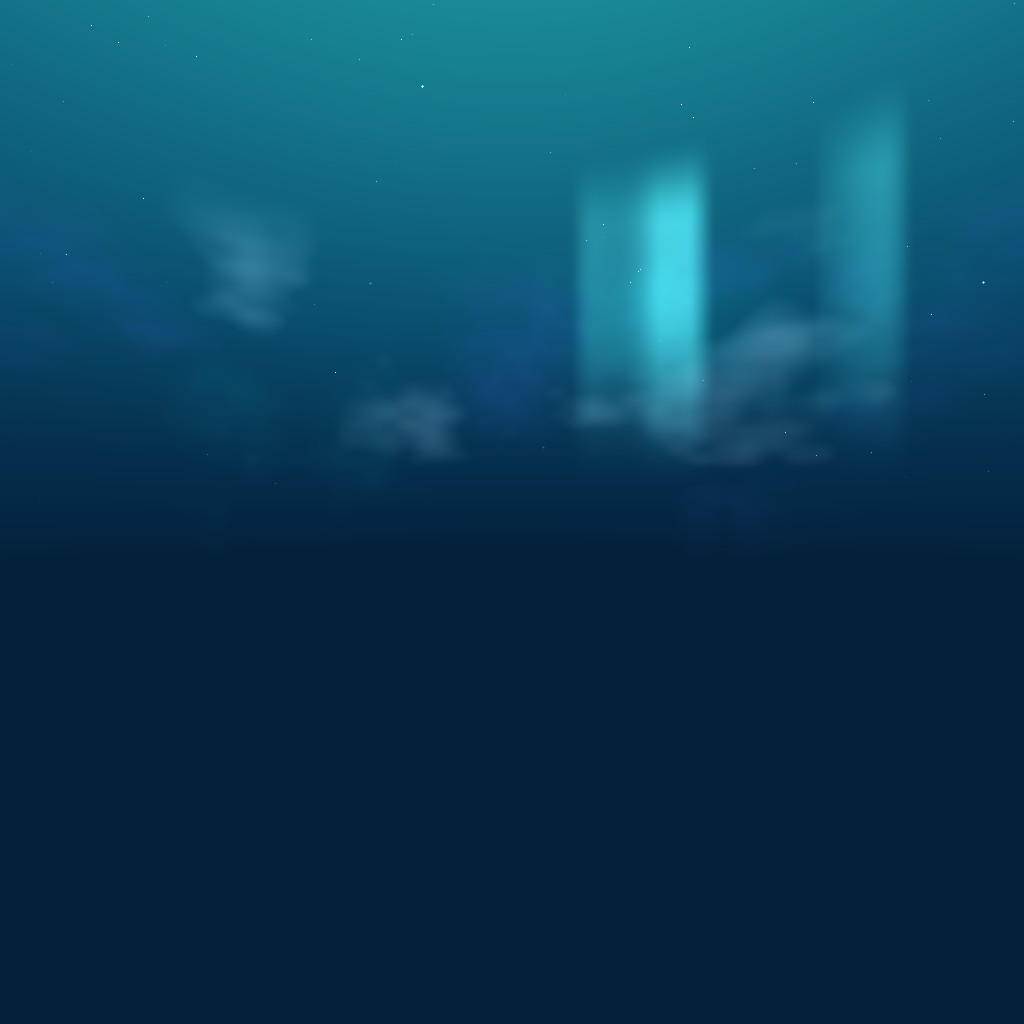
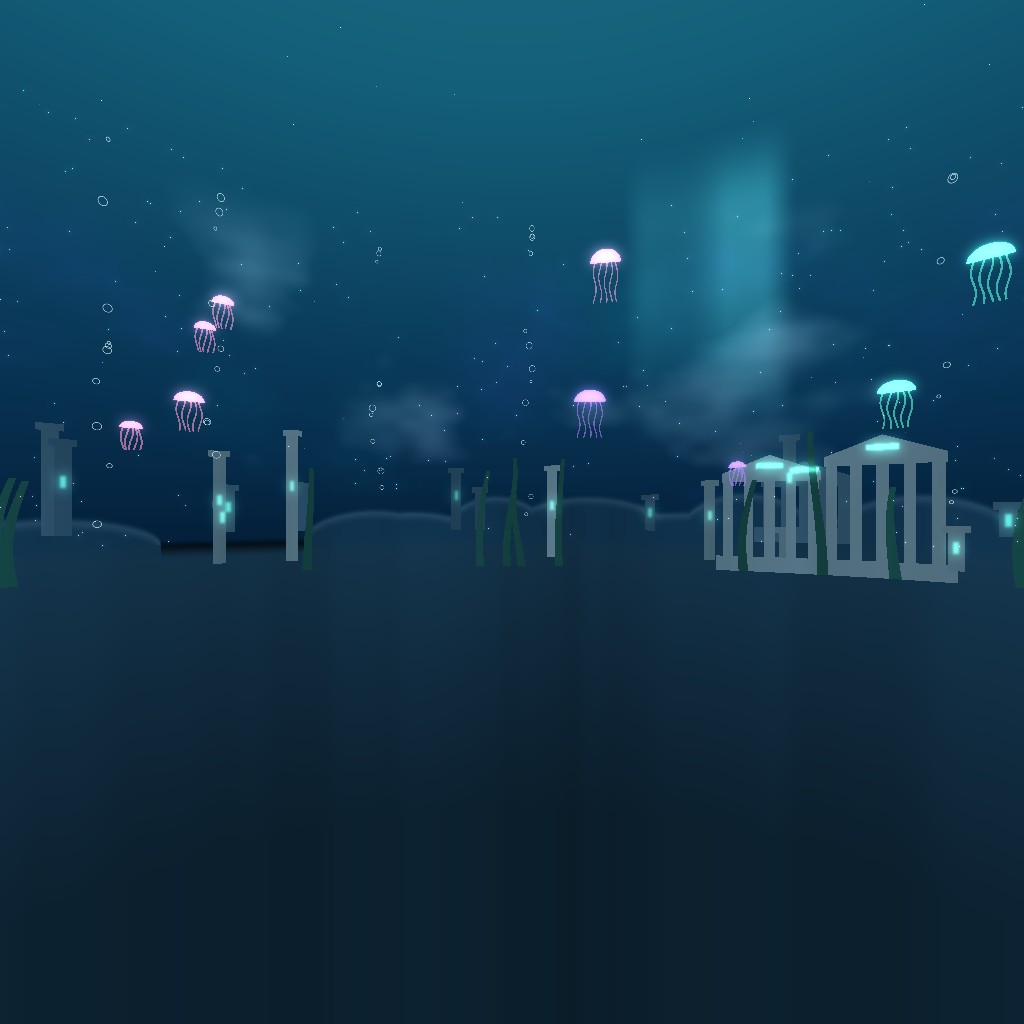
Tiefsee: Wasser von Welt zu Welt dunkler, neue Unterwasser-Himmelsbilder
Claude-Session: https://claude.ai/code/session_01WGAK1WKGb9aXCr6zYGQPQk

diff --git a/roblox/js/worldParts.js b/roblox/js/worldParts.js
@@ -788,6 +788,7 @@ export function worldLighting(world) {
   const lum = 0.3 * c.r + 0.59 * c.g + 0.11 * c.b;
   const night = lum < 0.2;
   const dim = (hex, k) => '#' + new THREE.Color(hex).multiplyScalar(k).getHexString();
+  const look = worldLook(world, night);
   return {
     ClockTime: night ? 0.5 : 14,
     Brightness: night ? 1.2 : 2.6,
@@ -802,7 +803,8 @@ export function worldLighting(world) {
     bloom: { Intensity: night ? 0.7 : 0.45, Size: 24, Threshold: night ? 1.2 : 1.6 },
     // Himmelsbild (Skybox) der Welt, falls gemalt (welten/js/skyboxes.js)
     himmel: SKYBOXES[world.id] ? { id: world.id, sun: SKYBOXES[world.id].sun !== false, night: !!NIGHT_SKY[world.id] } : null,
-    ...worldLook(world, night),
+    ...look,
+    atmosphere: { Density: world.water ? 0.55 : night ? 0.4 : 0.42, Offset: 0.08, Color: horizon, Decay: top, Glare: night ? 0 : 0.25, Haze: world.water ? 2.6 : 1.8, ...look.atmosphere },
   };
 }
 
@@ -821,6 +823,12 @@ const LOOK = {
   wolkenburg: { clock: 12.5, sat: 0.16, tint: '#fffaf0' },
   engelsgarten: { clock: 13, sat: 0.16, tint: '#fff8e8' },
   goetterthron: { clock: 17.8, sat: 0.22, tint: '#fff0d8' },
+  // Tiefsee (Werkstatt-Wunsch „jede weitere Welt dunkleres Wasser“): Licht, Nebel und Wasserfarbe werden von Welt zu
+  // Welt dunkler und blauer, der Nebel rückt näher (passend zu den Himmelsbildern)
+  korallenriff: { sat: 0.2, tint: '#eafcff', light: { Brightness: 2.4, Ambient: '#5a7c8a', OutdoorAmbient: '#8abccc', FogColor: '#2aa8d0', FogStart: 140, FogEnd: 950, atmosphere: { Color: '#2aa8d0', Decay: '#8ae4f0', Density: 0.5, Haze: 2.2 } } },
+  muschelland: { sat: 0.18, tint: '#e4f2ff', light: { Brightness: 1.8, Ambient: '#4a6478', OutdoorAmbient: '#6a90aa', FogColor: '#16729a', FogStart: 120, FogEnd: 800, atmosphere: { Color: '#16729a', Decay: '#6aa8d0', Density: 0.55, Haze: 2.5 } } },
+  atlantis: { sat: 0.16, tint: '#d4e6ff', light: { Brightness: 1.25, Ambient: '#2c4258', OutdoorAmbient: '#3c5a78', FogColor: '#062a48', FogStart: 100, FogEnd: 640, atmosphere: { Color: '#062a48', Decay: '#14607a', Density: 0.6, Haze: 2.8 } } },
+  tiefseegraben: { sat: 0.14, tint: '#c4d6f0', light: { Brightness: 0.75, Ambient: '#1a2638', OutdoorAmbient: '#22344a', FogColor: '#01070f', FogStart: 70, FogEnd: 480, atmosphere: { Color: '#01070f', Decay: '#041420', Density: 0.66, Haze: 3 } } },
 };
 function worldLook(world, night) {
   const L = LOOK[world.id] || {};
@@ -828,6 +836,7 @@ function worldLook(world, night) {
     farbe: { Saturation: L.sat ?? 0.2, Contrast: 0.06, Brightness: 0.01, TintColor: L.tint || '#ffffff' },
   };
   if (L.clock && !night) out.ClockTime = L.clock;
+  if (L.light) Object.assign(out, L.light);
   const N = NIGHT_SKY[world.id];
   if (N) {
     out.nacht = {

diff --git a/tools/himmel/himmel.py b/tools/himmel/himmel.py
@@ -287,6 +287,207 @@ def cavern(img, elev, u, cfg, seed):
         img[..., k] = np.clip(img[..., k] + dots[..., k] * 0.8 + blur_wrap(dots[..., k], 4) * 1.2, 0, 1)
 
 
+# Unterwasserwelten (Werkstatt-Wunsch „Tiefsee: jede Welt dunkler, Himmel deutlich verbessern“): Silhouetten am
+# Meeresgrund in mehreren Nebelschichten (Korallen, Riesenmuscheln, Tang, Ruinen, Schluchtwände), dazu Fischschwärme,
+# Quallen, Luftblasen, Leuchtpunkte und glühende Schlote. Gerechnet in Grad (X = Richtung, 0..90 und wiederholt,
+# Y = Höhe), damit die Formen rund sind; alles bleibt unter 32 Grad (Naht zum Bild oben).
+def _wrapdx(X, c):
+    return (X - c + 45.0) % 90.0 - 45.0
+
+
+def _over(img, a, col):
+    a = np.clip(a, 0, 1)[..., None]
+    img[:] = img * (1 - a) + np.asarray(col, np.float32)[None, None, :] * a if np.ndim(col) == 1 else img * (1 - a) + col * a
+
+
+def _fogcol(c, fogc, f):
+    return rgb(c) * (1 - f) + rgb(fogc) * f
+
+
+def undersea(img, elev, u, cfg, seed):
+    rng = np.random.default_rng(seed)
+    X, Y = u * 90.0, elev
+    fogc = cfg['fog']
+    glowA = np.zeros(elev.shape, np.float32)
+    glowC = np.zeros(elev.shape + (3,), np.float32)
+
+    def add_glow(a, c):
+        nonlocal glowA, glowC
+        glowA = glowA + a
+        glowC = glowC + rgb(c)[None, None, :] * a[..., None]
+
+    for layer in cfg.get('layers', []):
+        f = layer['fog']
+        kind = layer['kind']
+        base = layer.get('base', -4)
+        n = layer.get('n', 10)
+        cols = layer.get('colors', ['#203040'])
+        tex = fbm(u, elev / 40.0, 10, 3, seed + int(f * 100), 0.6)
+        if kind in ('mounds', 'cliffs'):
+            # runde Korallenhügel / zackige Schluchtwände
+            best = np.full(elev.shape, -99.0, np.float32)
+            who = np.full(elev.shape, -1, np.int32)
+            for i in range(n):
+                c, w, h = rng.uniform(0, 90), rng.uniform(*layer['w']), rng.uniform(*layer['h'])
+                d = np.abs(_wrapdx(X, c)) / w
+                if kind == 'mounds':
+                    v = base + h * np.sqrt(np.clip(1 - d * d, 0, 1)) - 99 * (d >= 1)
+                else:
+                    v = base + h * np.clip(1 - d, 0, 1) ** 0.6 - 99 * (d >= 1)
+                m = v > best
+                best = np.where(m, v, best)
+                who = np.where(m, i, who)
+            if kind == 'cliffs':
+                best = best + (fbm(u, np.zeros_like(elev), 40, 3, seed + 5, 0.6) - 0.5) * layer.get('rough', 3)
+            a = np.maximum(smooth(best + 0.4, best - 0.4, Y), smooth(base + 0.4, base - 0.4, Y))
+            col = np.zeros(elev.shape + (3,), np.float32)
+            for i in range(n):
+                col = np.where((who == i)[..., None], _fogcol(cols[i % len(cols)], fogc, f)[None, None, :], col)
+            # unter dem Fuß der Hügel: einheitlicher Grund (Sand oder Fels), nach unten dunkler; sonst entstünden Streifen
+            floor = _fogcol(layer.get('floor', '#8a7a68'), fogc, f)
+            fl = smooth(base + 0.5, base - 1.5, Y)[..., None]
+            col = col * (1 - fl) + floor[None, None, :] * fl * (0.6 + 0.4 * np.clip((Y + 30) / 30, 0, 1))[..., None]
+            col = col * (0.82 + 0.3 * tex[..., None])
+            # Lichtkante oben (Licht von der Oberfläche)
+            rim = smooth(best - 1.2, best - 0.1, Y) * a * (best > base + 0.3) * (Y > base)
+            col = col + rgb(layer.get('rim', '#ffffff'))[None, None, :] * (rim * layer.get('rimStrength', 0.25) * (1 - f))[..., None]
+            _over(img, a, col)
+            # Korallenzweige auf den Hügeln
+            if layer.get('branches'):
+                for i in range(layer['branches']):
+                    c = rng.uniform(0, 90)
+                    col_i = _fogcol(rng.choice(cols), fogc, f * 0.9)
+                    top = base + rng.uniform(*layer['h']) * 0.9
+                    for k in range(3):
+                        bx = c + rng.uniform(-1.2, 1.2)
+                        bh = rng.uniform(2.5, 5.0)
+                        y0 = top - 2
+                        t = np.clip((Y - y0) / bh, 0, 1)
+                        xc = bx + np.sin(t * 3 + k) * 0.6 * t
+                        wdt = 0.35 * (1 - t * 0.6)
+                        a2 = (np.abs(_wrapdx(X, xc)) < wdt) * (Y > y0) * (Y < y0 + bh)
+                        tip = smooth(y0 + bh - 0.8, y0 + bh - 0.2, Y) * a2
+                        _over(img, a2.astype(np.float32), col_i * 0.9 + 0.1 * rgb('#ffffff'))
+                        add_glow(tip * layer.get('tipGlow', 0) , '#ffffff')
+        elif kind == 'kelp':
+            for i in range(n):
+                c = rng.uniform(0, 90)
+                H = rng.uniform(*layer['h'])
+                ph, fr, amp = rng.uniform(0, 6.3), rng.uniform(0.15, 0.3), rng.uniform(0.4, 1.2)
+                t = np.clip((Y - base) / H, 0, 1)
+                xc = c + np.sin(Y * fr + ph) * amp * t
+                wdt = layer.get('width', 0.45) * (1 - t * 0.5)
+                a = ((np.abs(_wrapdx(X, xc)) < wdt) & (Y > base) & (Y < base + H)).astype(np.float32)
+                _over(img, a, _fogcol(cols[i % len(cols)], fogc, f) * (0.85 + 0.25 * tex[..., None]))
+        elif kind == 'shells':
+            # Riesenmuscheln: Fächer mit Rippen, Perle in der Mitte
+            for i in range(n):
+                c, r = rng.uniform(0, 90), rng.uniform(*layer['h'])
+                dx, dy = _wrapdx(X, c), Y - base
+                d = np.sqrt(dx * dx + dy * dy)
+                ang = np.arctan2(dy, dx)
+                a = ((d < r) & (dy > 0)).astype(np.float32)
+                ribs = 0.8 + 0.25 * np.cos(ang * 14)
+                col = _fogcol(cols[i % len(cols)], fogc, f)[None, None, :] * ribs[..., None] * (0.85 + 0.25 * (d / r))[..., None]
+                _over(img, a, col)
+                if layer.get('pearls'):
+                    pd = np.sqrt(dx * dx + (dy - r * 0.18) ** 2)
+                    pa = smooth(r * 0.12, r * 0.09, pd)
+                    _over(img, pa, _fogcol('#fff4fb', fogc, f * 0.5))
+                    add_glow(pa * 0.8, '#ffd8f0')
+        elif kind == 'ruins':
+            # Säulen (manche abgebrochen) und Tempel mit Giebel, leuchtende Runen
+            for i in range(n):
+                c = rng.uniform(0, 90)
+                if rng.random() < layer.get('temple', 0.3):
+                    w, H = rng.uniform(6, 10), rng.uniform(*layer['h'])
+                    dx = _wrapdx(X, c)
+                    cols_a = np.zeros(elev.shape, np.float32)
+                    for k in range(5):
+                        cx = -w / 2 + w * k / 4
+                        cols_a = np.maximum(cols_a, ((np.abs(dx - cx) < 0.45) & (Y > base) & (Y < base + H)).astype(np.float32))
+                    beam = ((np.abs(dx) < w / 2 + 0.6) & (Y > base + H) & (Y < base + H + 0.9)).astype(np.float32)
+                    roof = ((Y > base + H + 0.9) & (Y < base + H + 0.9 + (w / 2 + 0.6 - np.abs(dx)) * 0.4)).astype(np.float32)
+                    step = ((np.abs(dx) < w / 2 + 1.2) & (Y > base - 1) & (Y < base + 0.5)).astype(np.float32)
+                    a = np.maximum.reduce([cols_a, beam, roof, step])
+                    _over(img, a, _fogcol(cols[0], fogc, f) * (0.85 + 0.25 * tex[..., None]))
+                    rune = ((np.abs(dx) < 1.2) & (np.abs(Y - (base + H + 1.6)) < 0.25)).astype(np.float32)
+                    add_glow(rune * 1.5, layer.get('glow', '#5affd8'))
+                    _over(img, rune, rgb(layer.get('glow', '#5affd8')))
+                else:
+                    H = rng.uniform(*layer['h']) * (0.4 if rng.random() < 0.4 else 1)
+                    dx = _wrapdx(X, c)
+                    shaft = (np.abs(dx) < 0.55) & (Y > base) & (Y < base + H)
+                    cap = (np.abs(dx) < 0.9) & (Y > base + H) & (Y < base + H + 0.6)
+                    a = (shaft | cap).astype(np.float32)
+                    _over(img, a, _fogcol(cols[i % len(cols)], fogc, f) * (0.8 + 0.3 * tex[..., None]))
+                    rune = ((np.abs(dx) < 0.2) & (np.abs(Y - (base + H * 0.6)) < 0.5)).astype(np.float32) * (rng.random() < 0.6)
+                    add_glow(rune * 1.2, layer.get('glow', '#5affd8'))
+        elif kind == 'vents':
+            # glühende Schlote am Grund
+            for i in range(n):
+                c = rng.uniform(0, 90)
+                dx = _wrapdx(X, c)
+                H = rng.uniform(*layer['h'])
+                a = ((np.abs(dx) < (1.2 - (Y - base) / H * 0.8)) & (Y > base) & (Y < base + H)).astype(np.float32)
+                _over(img, a, _fogcol(cols[0], fogc, f))
+                g = np.exp(-((dx / 1.2) ** 2 + ((Y - base - H) / 1.5) ** 2))
+                add_glow(g * 1.4, layer.get('glow', '#ff7a2a'))
+                # Rauchfahne
+                sm = np.exp(-(dx / (0.8 + (Y - base - H) * 0.12)) ** 2) * smooth(base + H, base + H + 2, Y) * (1 - smooth(base + H + 6, base + H + 16, Y))
+                _over(img, sm * 0.5, _fogcol('#3a4048', fogc, 0.5))
+    # Fischschwärme
+    for s_ in range(cfg.get('schools', 0)):
+        cx, cy = rng.uniform(0, 90), rng.uniform(6, 26)
+        col = _fogcol(cfg.get('fishColor', '#203848'), fogc, rng.uniform(0.2, 0.6))
+        dirn = rng.choice([-1, 1])
+        for _ in range(int(rng.integers(12, 28))):
+            fx, fy = cx + rng.normal(0, 3), cy + rng.normal(0, 1.4)
+            dx, dy = _wrapdx(X, fx), Y - fy
+            body = (dx / 0.55) ** 2 + (dy / 0.22) ** 2 < 1
+            tail = (dirn * dx < -0.4) & (dirn * dx > -0.8) & (np.abs(dy) < (-(dirn * dx) - 0.4) * 0.6)
+            _over(img, (body | tail).astype(np.float32), col)
+    # Quallen
+    for _ in range(cfg.get('jellies', 0)):
+        cx, cy = rng.uniform(0, 90), rng.uniform(4, 26)
+        r = rng.uniform(0.8, 1.8)
+        c = rng.choice(cfg.get('jellyColors', ['#ff9ad5']))
+        dx, dy = _wrapdx(X, cx), Y - cy
+        dome = ((dx / r) ** 2 + (dy / (r * 0.75)) ** 2 < 1) & (dy > 0)
+        tent = np.zeros(elev.shape, bool)
+        for k in range(5):
+            tx = -r * 0.7 + r * 1.4 * k / 4
+            tent |= (np.abs(dx - tx - np.sin((dy) * 2 + k) * 0.15) < 0.07) & (dy < 0) & (dy > -r * 2.2)
+        _over(img, dome.astype(np.float32) * 0.75, rgb(c) * 0.8 + 0.2)
+        _over(img, tent.astype(np.float32) * 0.6, rgb(c))
+        add_glow(dome.astype(np.float32) * 0.9, c)
+    # Luftblasen in Säulen
+    for _ in range(cfg.get('bubbles', 0)):
+        cx = rng.uniform(0, 90)
+        for k in range(int(rng.integers(6, 14))):
+            by = rng.uniform(-2, 30)
+            bx = cx + np.sin(by * 0.5) * 0.6
+            r = rng.uniform(0.12, 0.35)
+            d = np.sqrt(_wrapdx(X, bx) ** 2 + (Y - by) ** 2)
+            ring = smooth(r - 0.06, r, d) * (1 - smooth(r, r + 0.05, d))
+            _over(img, ring * 0.7, rgb('#e8ffff'))
+    # Leuchtplankton
+    for _ in range(cfg.get('plankton', 0)):
+        y, x = int(rng.integers(0, N)), int(rng.integers(0, N))
+        if not (-3 < elev[y, x] < 31):
+            continue
+        c = rgb(rng.choice(cfg.get('planktonColors', ['#7affe8'])))
+        glowA[y, x] += 2.5
+        glowC[y, x] += c * 2.5
+        img[y, x] = np.clip(img[y, x] + c, 0, 1)
+    # Leuchten weich zeichnen
+    if glowA.max() > 0:
+        gcol = glowC / np.maximum(glowA[..., None], 1e-4)
+        ga = np.clip(glowA, 0, 1.5)
+        for k in range(3):
+            img[..., k] = np.clip(img[..., k] + blur_wrap(np.clip(gcol[..., k] * ga / 1.5, 0, 1), 6) * cfg.get('glow', 0.9) + blur_wrap(np.clip(gcol[..., k] * ga / 1.5, 0, 1), 1.2) * 0.5, 0, 1)
+
+
 # Regenbogenband rundherum (nur von der Höhe abhängig, darum ohne Naht), weich und durchscheinend
 def rainbow(img, elev, cfg):
     lo, hi = cfg['band']
@@ -417,6 +618,8 @@ def render(name, cfg):
         cave(img, elev, u, cfg['cave'], seed + 77)
     if cfg.get('cavern'):
         cavern(img, elev, u, cfg['cavern'], seed + 79)
+    if cfg.get('undersea'):
+        undersea(img, elev, u, cfg['undersea'], seed + 83)
     if cfg.get('water'):
         water(img, elev, u, cfg['water'], seed + 33)
     if cfg.get('rays'):
@@ -626,34 +829,69 @@ HIMMEL = {
             {'band': (8, 26), 'scale': 6, 'cover': 0.55, 'soft': 0.4, 'light': '#ffd84a', 'shadow': '#e05a10', 'streaks': True, 'alpha': 0.5, 'blur': 4},
         ],
     },
-    # Korallenriff: warmes, klares Wasser; oben hell türkis mit Lichtnetz der Oberfläche, Lichtstrahlen fallen schräg herab,
-    # zum Horizont tiefes Blau; ein paar Planktonpünktchen (Sterne in hellem Türkis)
+    # Tiefsee (Werkstatt-Wunsch „jede weitere Welt dunkleres Wasser, Himmel deutlich verbessern“): Korallenriff hell
+    # und sonnig, Muschelland etwas tiefer, Atlantis tiefblau, Tiefseegraben fast schwarz (unten bei HIMMEL.update)
+    # Korallenriff: klares, sonniges Flachwasser; kräftige Lichtstrahlen, bunte Korallenhügel in drei Nebelschichten,
+    # Fischschwärme und Luftblasen
     'korallenriff': {
         'seed': 163,
-        'gradient': [(-5, '#0a4a7a'), (6, '#127aa8'), (20, '#2ab0c8'), (45, '#6ad8e8'), (90, '#bff8ff')],
-        'below': [(-90, '#06304e'), (0, '#0a4a7a')],
-        'water': {'light': '#e8ffff', 'shafts': 18, 'strength': 0.4, 'from': 2, 'to': 22},
-        'stars': 400,
+        'gradient': [(-6, '#1a7aa8'), (4, '#2aa8d0'), (16, '#4ac8e0'), (34, '#8ae4f0'), (90, '#d8fcff')],
+        'below': [(-90, '#0a5a88'), (0, '#1a7aa8')],
+        'glow': {'at': 26, 'width': 14, 'color': '#e8ffff', 'strength': 0.25},
+        'undersea': {
+            'fog': '#2aa8d0',
+            'layers': [
+                {'kind': 'mounds', 'n': 16, 'w': (3, 7), 'h': (3, 7), 'base': -3, 'fog': 0.7, 'colors': ['#ff8aa8', '#ffb05a', '#c87aff', '#5ad8a0'], 'floor': '#e8d8a8'},
+                {'kind': 'mounds', 'n': 12, 'w': (2.5, 6), 'h': (4, 9), 'base': -5, 'fog': 0.45, 'colors': ['#ff6a8a', '#ffa03a', '#b05aff', '#3ac888', '#ffd84a'], 'branches': 14, 'floor': '#e0cc98'},
+                {'kind': 'kelp', 'n': 14, 'h': (6, 16), 'base': -6, 'fog': 0.3, 'colors': ['#2a8a5a', '#3aa060']},
+                {'kind': 'mounds', 'n': 8, 'w': (2, 5), 'h': (5, 11), 'base': -8, 'fog': 0.15, 'colors': ['#e84a6a', '#ff8a2a', '#9a3ae8', '#ffc83a'], 'branches': 10, 'rimStrength': 0.4, 'floor': '#d8c08a'},
+            ],
+            'schools': 7, 'fishColor': '#1a4a6a', 'bubbles': 10, 'plankton': 80, 'planktonColors': ['#ffffff', '#e8ffff'], 'glow': 0.4,
+        },
+        'water': {'light': '#ffffff', 'shafts': 16, 'strength': 0.6, 'from': -2, 'to': 24},
+        'stars': 200,
     },
-    # Muschelland: perlmuttfarbenes Wasser; oben helles Rosa-Weiß mit Lichtnetz, Lichtstrahlen in zartem Rosa,
-    # zum Horizont Türkis bis Blau, Perlenglitzern
+    # Muschelland: tieferes Türkisblau mit Perlmuttschimmer; Riesenmuscheln mit leuchtenden Perlen, Tangwald,
+    # Lichtstrahlen in zartem Rosa
     'muschelland': {
         'seed': 173,
-        'gradient': [(-5, '#1a5a8a'), (6, '#2a8ab0'), (18, '#5ab8d0'), (34, '#a8b8e0'), (60, '#e0a8d0'), (90, '#f0b8dc')],
-        'below': [(-90, '#124a72'), (0, '#1a5a8a')],
-        'water': {'light': '#ffd8f0', 'shafts': 16, 'strength': 0.35, 'from': 2, 'to': 22, 'topLight': 0.5},
-        'stars': 500,
+        'gradient': [(-6, '#0e5078'), (4, '#16729a'), (16, '#2a90b4'), (32, '#6aa8d0'), (60, '#b8a8d8'), (90, '#d8a8d0')],
+        'below': [(-90, '#083a5a'), (0, '#0e5078')],
+        'glow': {'at': 4, 'width': 8, 'color': '#ffb8e0', 'strength': 0.2},
+        'undersea': {
+            'fog': '#16729a',
+            'layers': [
+                {'kind': 'mounds', 'n': 14, 'w': (4, 9), 'h': (2, 5), 'base': -3, 'fog': 0.7, 'colors': ['#e8c8a0', '#d8b090'], 'floor': '#d8c0a0'},
+                {'kind': 'kelp', 'n': 26, 'h': (8, 22), 'base': -4, 'fog': 0.55, 'colors': ['#2a6a5a', '#3a7a5a'], 'width': 0.5},
+                {'kind': 'shells', 'n': 7, 'h': (2.5, 5), 'base': -3, 'fog': 0.35, 'colors': ['#ffd8ec', '#f4c8e0', '#ffe8d0'], 'pearls': True},
+                {'kind': 'kelp', 'n': 12, 'h': (10, 26), 'base': -8, 'fog': 0.2, 'colors': ['#1a5a4a', '#2a6a4a'], 'width': 0.6},
+                {'kind': 'shells', 'n': 4, 'h': (4, 7), 'base': -7, 'fog': 0.12, 'colors': ['#ffc8e4', '#ffe0f0'], 'pearls': True},
+            ],
+            'schools': 4, 'fishColor': '#0e3a5a', 'bubbles': 8, 'plankton': 160, 'planktonColors': ['#ffe8f8', '#ffffff'], 'glow': 0.6,
+        },
+        'water': {'light': '#ffd8f0', 'shafts': 14, 'strength': 0.4, 'from': 0, 'to': 24, 'topLight': 0.5},
+        'stars': 300,
     },
-    # Atlantis: tiefes, geheimnisvolles Wasser; oben schwach türkis leuchtende Oberfläche, wenige kräftige Lichtstrahlen,
-    # zum Horizont fast schwarzblau; Leuchtplankton in Türkis
+    # Atlantis: tiefblaues, dämmriges Wasser; versunkene Säulen und Tempel mit leuchtenden Runen, Quallen,
+    # wenige schwache Lichtstrahlen, viel Leuchtplankton
     'atlantis': {
         'seed': 181,
-        'gradient': [(-5, '#04203a'), (6, '#063050'), (20, '#0a5070'), (45, '#1a8a98'), (90, '#3ac8c0')],
-        'below': [(-90, '#021428'), (0, '#04203a')],
-        'water': {'light': '#7affe8', 'shafts': 10, 'strength': 0.45, 'from': 2, 'to': 22, 'topLight': 0.6},
-        'stars': 900,
-        'starBright': 1.6,
-        'starsFrom': -2,
+        'gradient': [(-6, '#031a32'), (4, '#062a48'), (16, '#0a3a5a'), (40, '#14607a'), (90, '#2a8a98')],
+        'below': [(-90, '#010c1a'), (0, '#031a32')],
+        'nebula': {'band': (-4, 30), 'colors': ['#0a6a7a', '#2a3a98'], 'strength': 0.25},
+        'undersea': {
+            'fog': '#062a48',
+            'layers': [
+                {'kind': 'mounds', 'n': 12, 'w': (5, 10), 'h': (2, 5), 'base': -3, 'fog': 0.7, 'colors': ['#2a4a60'], 'floor': '#3a5a68'},
+                {'kind': 'ruins', 'n': 12, 'h': (4, 9), 'base': -2, 'fog': 0.55, 'colors': ['#5a7a88', '#4a6a7a'], 'temple': 0.25, 'glow': '#5affd8'},
+                {'kind': 'ruins', 'n': 8, 'h': (6, 13), 'base': -5, 'fog': 0.3, 'colors': ['#7a98a4', '#6a8894'], 'temple': 0.35, 'glow': '#5affd8'},
+                {'kind': 'kelp', 'n': 10, 'h': (6, 14), 'base': -6, 'fog': 0.25, 'colors': ['#1a4a40']},
+            ],
+            'jellies': 9, 'jellyColors': ['#ff9ad5', '#5affd8', '#b07bff'], 'bubbles': 5,
+            'plankton': 500, 'planktonColors': ['#5affd8', '#7ad0ff', '#b07bff'], 'glow': 1.0,
+        },
+        'water': {'light': '#7affe8', 'shafts': 9, 'strength': 0.25, 'from': 4, 'to': 26, 'topLight': 0.35},
+        'stars': 500, 'starBright': 1.2, 'starsFrom': -2,
     },
     # Spawn: warmer, goldener Nachmittag; oben klares Blau, zum Horizont Pfirsich und Gold, Haufenwolken golden angestrahlt
     'spawn': {
@@ -689,8 +927,6 @@ HIMMEL['saturn']['sparkles'] = {'count': 36, 'color': '#fff0c8', 'size': 8, 'fro
 HIMMEL['alien']['nebula'] = {'band': (-4, 32), 'colors': ['#7aff5a', '#ff5ad8', '#5affd8'], 'strength': 0.45}
 HIMMEL['alien']['sparkles'] = {'count': 40, 'color': '#d8ffd0', 'size': 8, 'from': -2}
 HIMMEL['sonne']['glow'] = {'at': 0, 'width': 10, 'color': '#ffffff', 'strength': 0.5}
-HIMMEL['korallenriff']['sparkles'] = {'count': 20, 'color': '#e8ffff', 'size': 6, 'top': False}
-HIMMEL['atlantis']['nebula'] = {'band': (-4, 30), 'colors': ['#0a8a8a', '#3a4ab8'], 'strength': 0.3}
 HIMMEL['lava']['glow'] = {'at': 0, 'width': 8, 'color': '#ffb050', 'strength': 0.45}
 HIMMEL['hoehle']['sparkles'] = {'count': 34, 'color': '#c8a8ff', 'size': 7, 'top': False}
 
@@ -699,12 +935,23 @@ HIMMEL.update({
     # biolumineszente Schleier in Türkis und Violett
     'tiefseegraben': {
         'seed': 191,
-        'gradient': [(-5, '#010812'), (8, '#02101e'), (25, '#04182c'), (55, '#062436'), (90, '#0a3448')],
-        'below': [(-90, '#000408'), (0, '#010812')],
-        'nebula': {'band': (-4, 30), 'colors': ['#0a5a5a', '#2a1a6a'], 'strength': 0.35},
-        'water': {'light': '#5affd8', 'shafts': 8, 'strength': 0.12, 'from': 6, 'to': 30, 'topLight': 0.25},
-        'stars': 1800, 'starBright': 1.6, 'starsFrom': -4,
-        'sparkles': {'count': 30, 'color': '#7affe8', 'size': 6, 'from': -4, 'top': False},
+        'gradient': [(-6, '#000308'), (6, '#01070f'), (20, '#020c18'), (50, '#041420'), (90, '#061c2a')],
+        'below': [(-90, '#000204'), (0, '#000308')],
+        'nebula': {'band': (-4, 30), 'colors': ['#063a3a', '#1a0e4a'], 'strength': 0.3},
+        'undersea': {
+            'fog': '#01070f',
+            'layers': [
+                {'kind': 'cliffs', 'n': 10, 'w': (6, 14), 'h': (14, 30), 'base': -6, 'fog': 0.55, 'colors': ['#0e1a26'], 'floor': '#0a121a', 'rough': 4, 'rim': '#2affd8', 'rimStrength': 0.15},
+                {'kind': 'vents', 'n': 6, 'h': (2, 5), 'base': -4, 'fog': 0.3, 'colors': ['#141a20'], 'glow': '#ff7a2a'},
+                {'kind': 'cliffs', 'n': 7, 'w': (4, 9), 'h': (8, 20), 'base': -10, 'fog': 0.15, 'colors': ['#060c12'], 'floor': '#04080c', 'rough': 5, 'rim': '#5affd8', 'rimStrength': 0.2},
+                {'kind': 'vents', 'n': 4, 'h': (3, 6), 'base': -7, 'fog': 0.1, 'colors': ['#0a0e12'], 'glow': '#5affd8'},
+            ],
+            'jellies': 12, 'jellyColors': ['#5affd8', '#ff7ae0', '#7ad0ff', '#b07bff'],
+            'plankton': 900, 'planktonColors': ['#5affd8', '#7ad0ff', '#ff7ae0'], 'glow': 1.2,
+        },
+        'water': {'light': '#5affd8', 'shafts': 8, 'strength': 0.06, 'from': 8, 'to': 30, 'topLight': 0.12},
+        'stars': 1400, 'starBright': 1.4, 'starsFrom': -4,
+        'sparkles': {'count': 24, 'color': '#7affe8', 'size': 6, 'from': -4, 'top': False},
     },
     # Wolkenburg: strahlender Himmel hoch über einem Wolkenmeer, goldener Saum am Horizont, dicke weiße Türme
     'wolkenburg': {

diff --git a/README.md b/README.md
@@ -1217,7 +1217,13 @@ der Insel hängt, bleibt.
 das Nachtbild) mit Licht, Nebel und Farbstimmung. Keine Himmelskörper mehr (`userData.rbx.celestial` wird beim Export
 verworfen) und `WorldFx.Apply` baut keine Teile mehr (Sonnen, Monde, Planeten, Sterne, Polarlicht, Wolken, Vögel,
 Fische, Teilchen); es bleibt nur seine Farbstimmung. Kuppel und Horizont-Ring blendet das Licht-Skript aus, sobald die
-Bild-IDs eingetragen sind. Die Absätze oben zu Sonnen, Planeten und Sternschnuppen gelten damit nicht mehr. Der Werkstatt-Ablauf dazu heißt **Himmel**
+Bild-IDs eingetragen sind. Die Absätze oben zu Sonnen, Planeten und Sternschnuppen gelten damit nicht mehr.
+
+**Tiefsee** (Planet 3): Das Wasser wird von Welt zu Welt dunkler, von Korallenriff (hell, sonnig) über Muschelland und
+Atlantis bis zum fast schwarzen Tiefseegraben: Himmelsbilder (Maler `undersea` in `tools/himmel/himmel.py` mit
+Korallenhügeln, Riesenmuscheln, Tang, versunkenen Säulen und Tempeln, Schluchtwänden mit glühenden Schloten,
+Fischschwärmen, Quallen und Leuchtplankton) und Licht (`LOOK[...].light` in `roblox/js/worldParts.js`: Helligkeit,
+Umgebungslicht, Nebelfarbe und -weite, Atmosphäre). Die Höhle hat den Maler `cavern` (Kristallhöhle). Der Werkstatt-Ablauf dazu heißt **Himmel**
 (Doc-Ids weiter `umgebung-<welt>`).
 
 Der Ablauf **Spawn** hat einen Punkt je Gebäude oder Platz im Spawn (Ids `spawn-<bereich>`: Shops mit Taschen-Laden und
